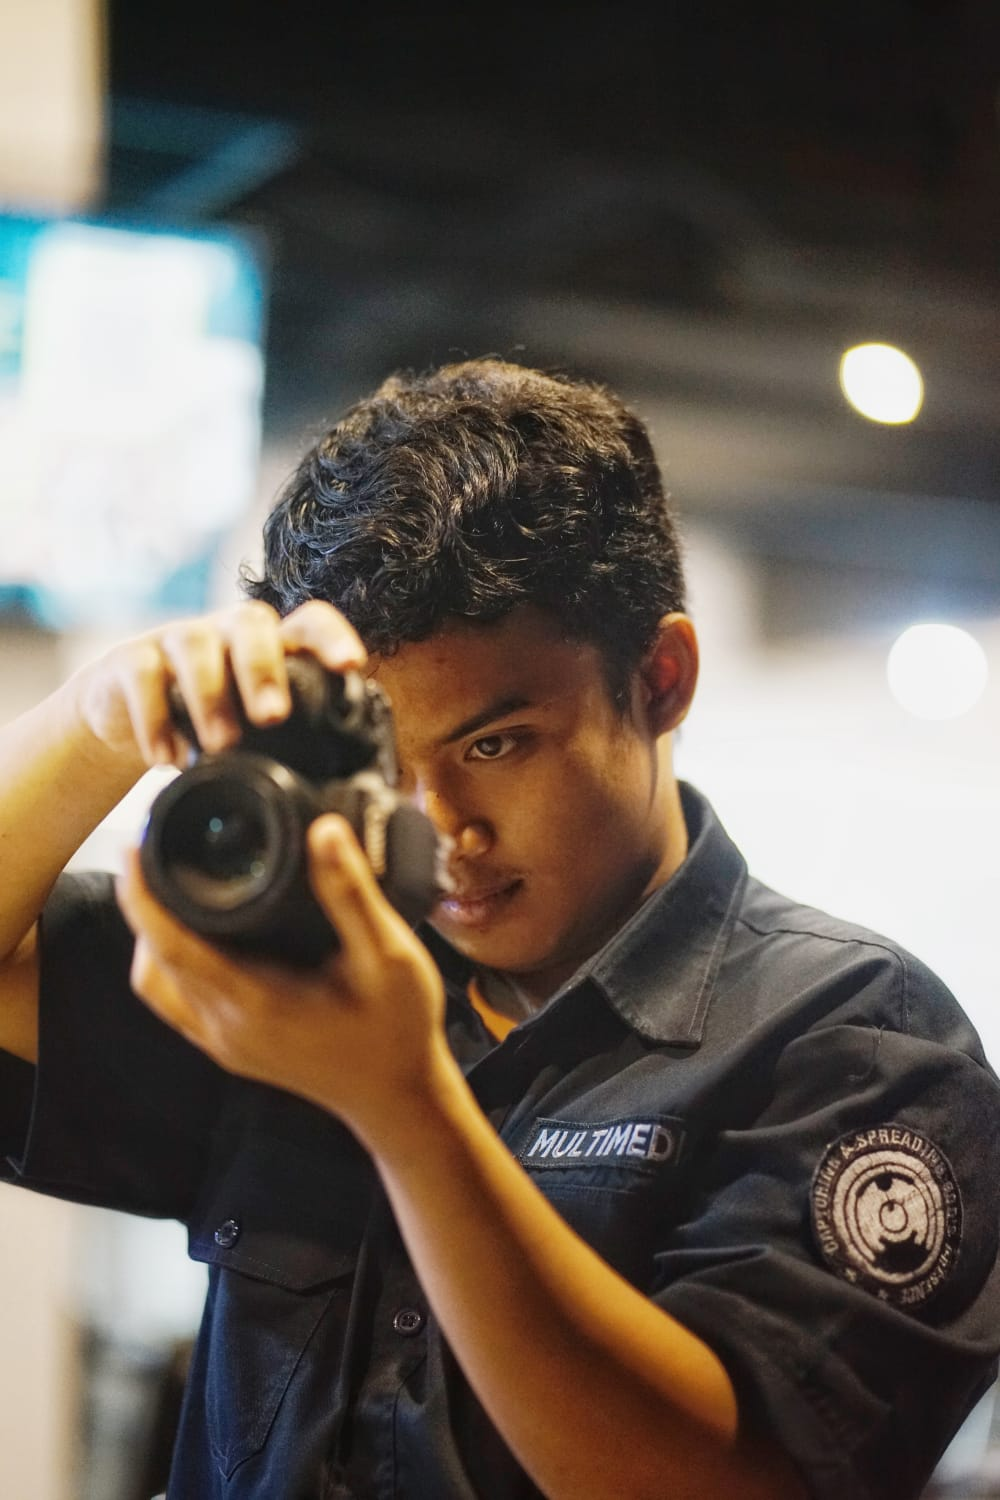
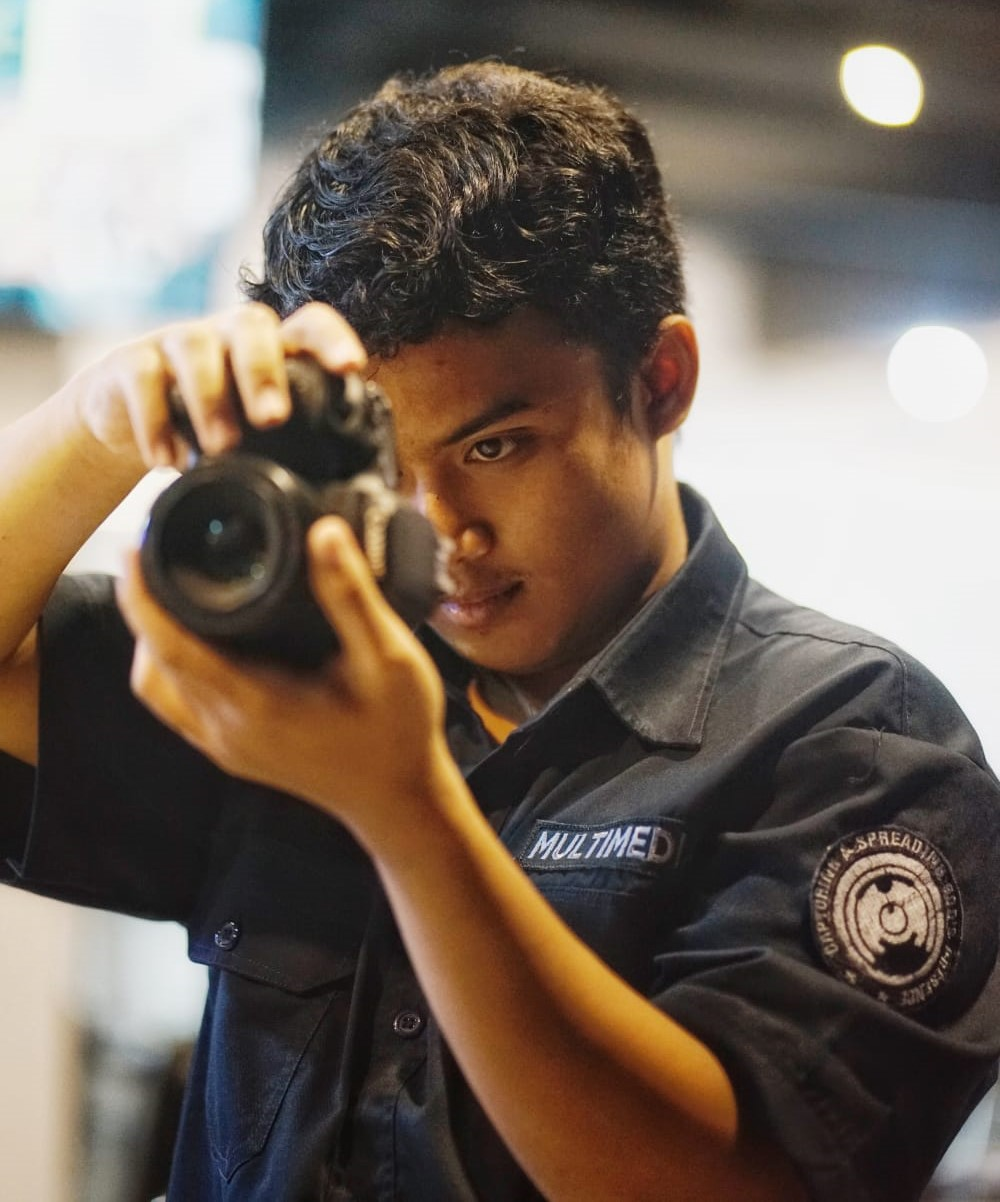
rev background

diff --git a/assets/css/style.css b/assets/css/style.css
@@ -264,7 +264,7 @@ h6 {
 #hero {
   width: 100%;
   height: 100vh;
-  background: url("../img/hero-bg.jpg") top right no-repeat;
+  background: url("../img/IMG_9884_copy.JPG") top right no-repeat;
   background-size: cover;
   position: relative;
 }
@@ -466,7 +466,7 @@ section {
 }
 
 /*--------------------------------------------------------------
-# Akills
+# skills
 --------------------------------------------------------------*/
 .skills .progress {
   height: 60px;
